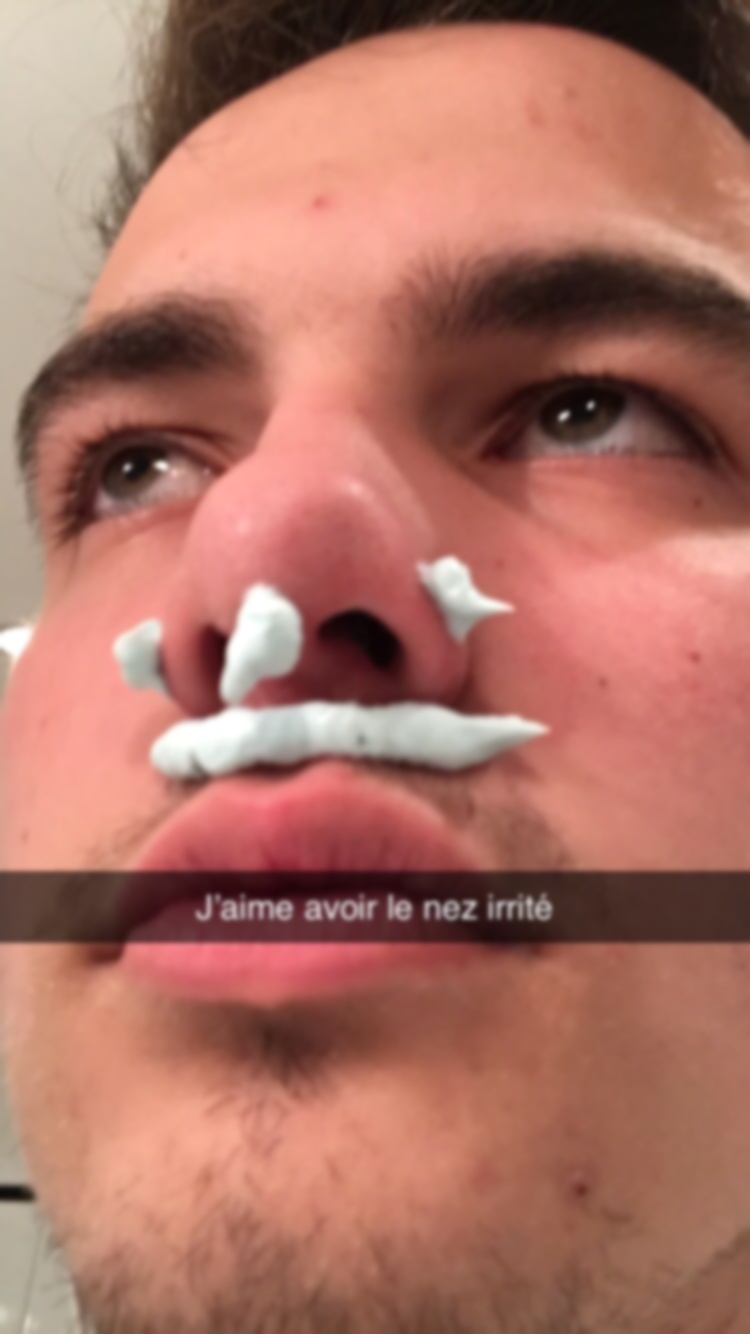
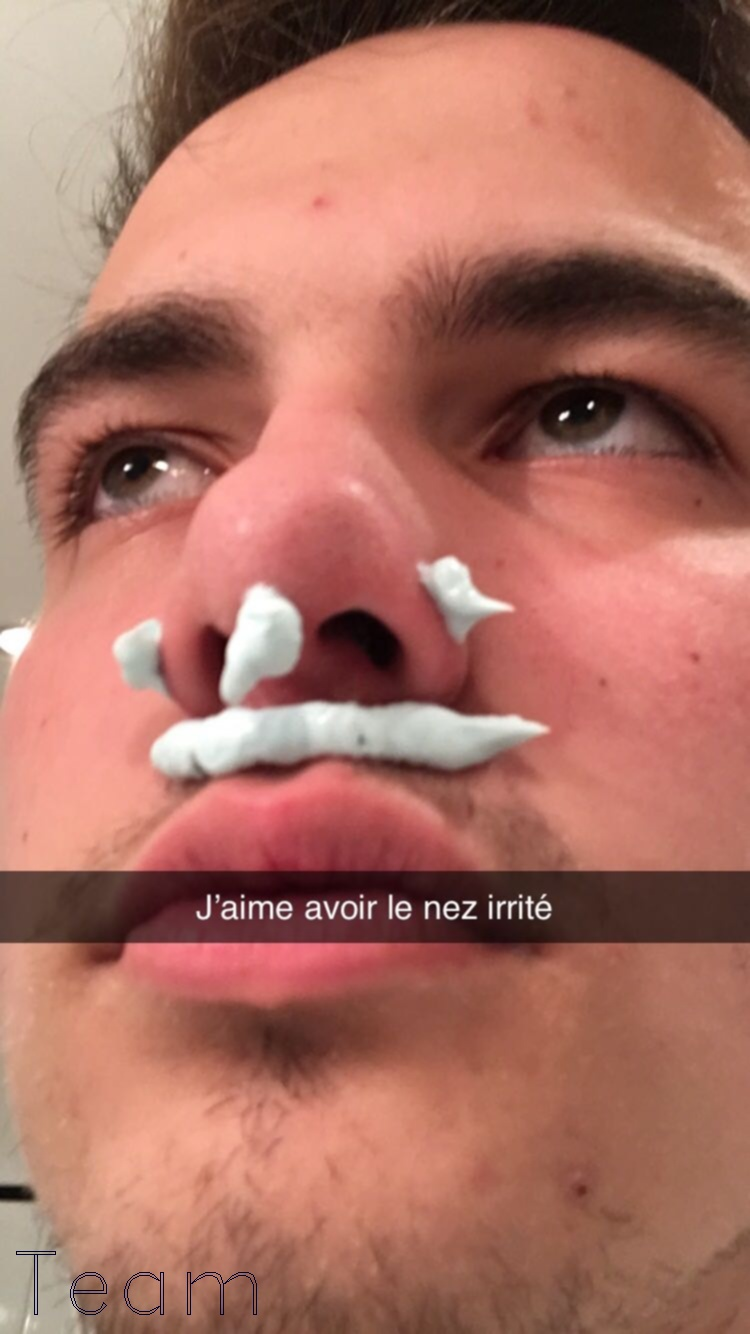
FontFilter done

diff --git a/src/main/java/org/jmll/imagefilter/App.java b/src/main/java/org/jmll/imagefilter/App.java
@@ -43,7 +43,7 @@ public class App {
         options.addOption(new Option("cf", "config-file", true, "Config file"));
 
         // Story 12
-       // options.addOption(new Option("fl", "list-filters", true, "Filters list"))   ;
+        // options.addOption(new Option("fl", "list-filters", true, "Filters list"))   ;
 
         //Create the list that will contain the applied filters
         ArrayList<Filter> filtersList = new ArrayList<>();
@@ -159,9 +159,9 @@ public class App {
         System.out.println();
 
         // parse filters
-        String filterArg = filters; // grayscale|blur
+        String filterArg = filters;
 
-        String[] split = filterArg.split("\\|"); // blur, grayscale
+        String[] split = filterArg.split("\\|");
         for (String s : split) {
             switch (s.charAt(0)) {
                 case 'b': // blur
@@ -176,7 +176,8 @@ public class App {
                     filtersList.add(new DilateFilter(Integer.valueOf(splitDilate[1])));
                     break;
                 case 't': // text
-                    filtersList.add(new TextFilter("TEMP"));
+                    String[] textDilate = s.split("\\:"); // split by : to get the argument
+                    filtersList.add(new TextFilter(String.valueOf(textDilate[1])));
                     break;
                 default:
                     System.out.println(s + " is not a valid filter");
@@ -230,20 +231,19 @@ public class App {
             }
         }
 
-            // Story 12 (bonus)
+        // Story 12 (bonus)
 
-            
 
-            Class <App> main = App.class;
-            Class<BlurFilter> blurClassObj = BlurFilter.class;
-            Class<DilateFilter> dilateClassObj = DilateFilter.class;
-            Method[] filterMethod = blurClassObj.getDeclaredMethods();
-            System.out.println("Name of the class : " + blurClassObj.getName());
-            Package pkg = main.getPackage();
-            System.out.println("Package Name = " + pkg.getName());
-            for (Method method : filterMethod) {
-                System.out.println("Name of the method : " + method.getName());
-            }
+        Class<App> main = App.class;
+        Class<BlurFilter> blurClassObj = BlurFilter.class;
+        Class<DilateFilter> dilateClassObj = DilateFilter.class;
+        Method[] filterMethod = blurClassObj.getDeclaredMethods();
+        System.out.println("Name of the class : " + blurClassObj.getName());
+        Package pkg = main.getPackage();
+        System.out.println("Package Name = " + pkg.getName());
+        for (Method method : filterMethod) {
+            System.out.println("Name of the method : " + method.getName());
+        }
 
     }
 

diff --git a/src/main/java/org/jmll/imagefilter/Filters/TextFilter.java b/src/main/java/org/jmll/imagefilter/Filters/TextFilter.java
@@ -1,5 +1,6 @@
 package org.jmll.imagefilter.Filters;
 
+import org.bytedeco.opencv.global.opencv_imgproc;
 import org.bytedeco.opencv.opencv_core.Mat;
 import org.bytedeco.opencv.opencv_core.Point;
 import org.bytedeco.opencv.opencv_core.Scalar;
@@ -15,6 +16,7 @@ public class TextFilter extends Filter {
 
     /**
      * Function which allow to display a text on the picture
+     *
      * @param text : text on the picture
      */
     public TextFilter(String text) {
@@ -23,6 +25,7 @@ public class TextFilter extends Filter {
 
     /**
      * Function mat which configure the text's position and the text's font
+     *
      * @param image picture in the folder
      * @return a clone of the picture with the filter
      * @throws FilterException if the filter has encountered an exception
@@ -30,12 +33,20 @@ public class TextFilter extends Filter {
     public Mat process(Mat image) throws FilterException {
         Mat cloneImage = image.clone();
         try {
-          putText(image, this.text, new Point(150, 150), CV_FONT_HERSHEY_SIMPLEX, 1.2, new Scalar(0xff));
+            //putText(image, this.text, new Point(150, 150), CV_FONT_HERSHEY_SIMPLEX, 1.2, new Scalar(0xff));
+            putText(
+                    cloneImage,                          // Matrix obj of the image
+                    this.text,                           // Text to be added
+                    new Point(10, cloneImage.rows() - 20),         // point
+                    CV_FONT_HERSHEY_DUPLEX,              // front face
+                    3.0,                     // front scale
+                    new Scalar(50)                  // Scalar object for color
+            );
         } catch (Exception e) {
             e.printStackTrace();
         }
 
-        Logger.log("Adding text filter with text = "+text, true);
+        Logger.log("Adding text filter with text = " + text, true);
         return cloneImage;
     }
 

diff --git a/src/main/java/org/jmll/imagefilter/Filters/DilateFilter.java b/src/main/java/org/jmll/imagefilter/Filters/DilateFilter.java
@@ -12,6 +12,7 @@ public class DilateFilter extends Filter {
 
     /**
      * Function which allow to dilate the picture
+     *
      * @param size : size of the picture, can't be pair
      */
     public DilateFilter(int size) {
@@ -19,7 +20,6 @@ public class DilateFilter extends Filter {
     }
 
     /**
-     *
      * @param image : picture in the folder
      * @return a clone of the picture with the filter
      * @throws FilterException if the size is pair, throw the exception
@@ -27,11 +27,11 @@ public class DilateFilter extends Filter {
     @Override
     public Mat process(Mat image) throws FilterException {
         Mat cloneImage = image.clone();
-        try{
-        Mat element = opencv_imgproc.getStructuringElement(Imgproc.MORPH_RECT, new Size(2 * size + 1, 2 * size + 1));
-        opencv_imgproc.dilate(image, cloneImage, element);
-        Logger.log("Adding dilate filter with size = " + size, true);}
-        catch (Exception e){
+        try {
+            Mat element = opencv_imgproc.getStructuringElement(Imgproc.MORPH_RECT, new Size(2 * size + 1, 2 * size + 1));
+            opencv_imgproc.dilate(image, cloneImage, element);
+            Logger.log("Adding dilate filter with size = " + size, true);
+        } catch (Exception e) {
             e.printStackTrace();
         }
 

diff --git a/src/main/java/org/jmll/imagefilter/Filters/GreyFilter.java b/src/main/java/org/jmll/imagefilter/Filters/GreyFilter.java
@@ -10,6 +10,7 @@ public class GreyFilter extends Filter {
 
     /**
      * Function which allow to add a grey filter
+     *
      * @param image picture in the folder
      * @return a clone of the picture with the filter
      * @throws FilterException if the filter has encountered an exception
@@ -20,7 +21,7 @@ public class GreyFilter extends Filter {
 
         try {
             opencv_imgproc.cvtColor(image, cloneImage, Imgproc.COLOR_RGB2GRAY);
-        } catch (Exception e){
+        } catch (Exception e) {
             e.printStackTrace();
         }
         Logger.log("Adding grayscale filter", true);

diff --git a/src/main/java/org/jmll/imagefilter/Filters/FilterException.java b/src/main/java/org/jmll/imagefilter/Filters/FilterException.java
@@ -2,14 +2,14 @@ package org.jmll.imagefilter.Filters;
 
 public class FilterException extends Exception {
 
-        public FilterException(String message) {
-            super(message);
-        }
+    public FilterException(String message) {
+        super(message);
+    }
 
-        public FilterException(String message, Throwable t) {
-            super(message, t);
-        }
+    public FilterException(String message, Throwable t) {
+        super(message, t);
+    }
 
-   }
+}
 
 

diff --git a/src/main/java/org/jmll/imagefilter/Filters/BlurFilter.java b/src/main/java/org/jmll/imagefilter/Filters/BlurFilter.java
@@ -12,6 +12,7 @@ public class BlurFilter extends Filter {
 
     /**
      * Function which allow to blur the picture
+     *
      * @param size : size of the picture, can't be pair
      */
     public BlurFilter(int size) {
@@ -19,7 +20,6 @@ public class BlurFilter extends Filter {
     }
 
     /**
-     *
      * @param image : picture in the folder
      * @return a clone of the picture with the filter
      * @throws FilterException if size is pair throw the exception
